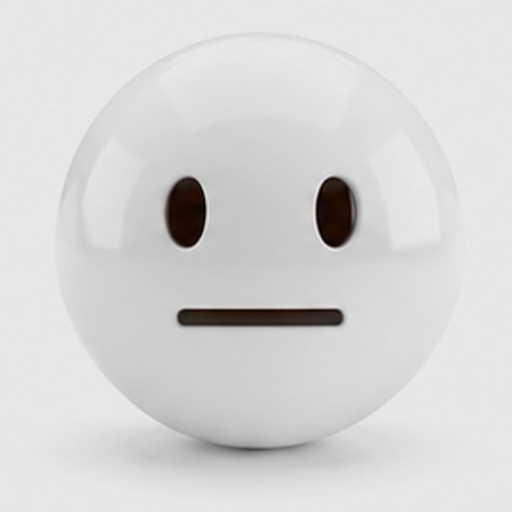
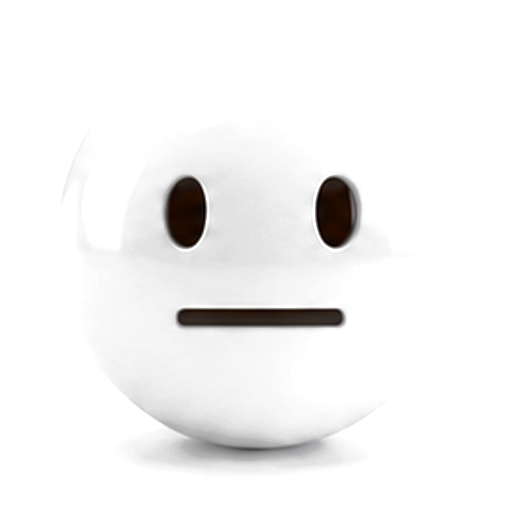
Transparent emoji PNGs, revert to plain img display
- PIL background removal: detected ~#E7E7E7 bg from corners,
  soft alpha edge so emojis blend cleanly on any page bg
- Remove dithering canvas code, back to simple <img>
- Drop unused hewnEmoji CSS keyframe

https://claude.ai/code/session_018M7KFojsfkFW1Qy3FznzBY

diff --git a/index.html b/index.html
@@ -66,103 +66,17 @@ const IChevUp = (p) => <Ico {...p}><polyline points="18 15 12 9 6 15" /></Ico>;
 
 /* ---- emoji visualisation ------------------------------------------ */
 function EmojiVis({ pPct, mPct }) {
-  const canvasRef = useRef(null);
-  const C = React.useContext(ThemeCtx);
-  const dataRef = useRef({ cells: [], revealStart: 0 });
-
   const avg = (pPct + mPct) / 2;
   const idx = Math.min(5, Math.floor(avg * 6));
-
-  const COLS = 40, ROWS = 40, CELL = 5;
-  const BAYER = [[0,8,2,10],[12,4,14,6],[3,11,1,9],[15,7,13,5]];
-
-  // Load + sample image into cell list whenever state changes
-  useEffect(() => {
-    const img = new Image();
-    img.crossOrigin = "anonymous";
-    img.onload = () => {
-      const sc = document.createElement("canvas");
-      sc.width = COLS; sc.height = ROWS;
-      const s = sc.getContext("2d");
-      s.drawImage(img, 0, 0, COLS, ROWS);
-      const px = s.getImageData(0, 0, COLS, ROWS).data;
-
-      const cells = [];
-      const cx = COLS / 2, cy = ROWS / 2;
-      for (let y = 0; y < ROWS; y++) {
-        for (let x = 0; x < COLS; x++) {
-          const i = (y * COLS + x) * 4;
-          const r = px[i], g = px[i+1], b = px[i+2], a = px[i+3];
-          if (a < 20) continue;
-
-          const lum = (r * 0.299 + g * 0.587 + b * 0.114) / 255;
-          // Skip background: high luminance + low saturation = neutral gray bg
-          const sat = (Math.max(r,g,b) - Math.min(r,g,b)) / (Math.max(r,g,b) || 1) / 255;
-          if (lum > 0.78 && sat < 0.10) continue;
-
-          const t = (BAYER[y % 4][x % 4] + 0.5) / 16;
-          const d = lum + (t - 0.5) * 0.32;
-          const char = d < 0.40 ? "+" : d < 0.72 ? "○" : null;
-          if (!char) continue;
-
-          const dist = Math.sqrt((x - cx) ** 2 + (y - cy) ** 2);
-          // unique shimmer phase per cell
-          const phase = (x * 1.3 + y * 2.1) % (Math.PI * 2);
-          cells.push({ x, y, char, lum, dist, phase });
-        }
-      }
-      dataRef.current = { cells, revealStart: performance.now() };
-    };
-    img.src = `assets/emojis/state${idx + 1}.png`;
-  }, [idx]);
-
-  // Continuous animation loop — restarted only when theme changes
-  useEffect(() => {
-    const canvas = canvasRef.current;
-    if (!canvas) return;
-    canvas.width = COLS * CELL;
-    canvas.height = ROWS * CELL;
-    const ctx = canvas.getContext("2d");
-    ctx.textAlign = "center";
-    ctx.textBaseline = "middle";
-    let raf;
-
-    function draw(now) {
-      const { cells, revealStart } = dataRef.current;
-      const elapsed = (now - revealStart) / 1000;
-
-      ctx.clearRect(0, 0, canvas.width, canvas.height);
-      ctx.fillStyle = C.ink;
-      ctx.font = `${CELL * 1.3}px monospace`;
-
-      for (const cell of cells) {
-        // staggered reveal: farther cells appear later, snappy ease-in
-        const delay = (cell.dist / 22) * 0.7;
-        const t = Math.min(1, Math.max(0, (elapsed - delay) * 4));
-        if (t <= 0) continue;
-        const reveal = t < 1 ? t * t * (3 - 2 * t) : 1; // smoothstep
-
-        // per-cell shimmer: gentle sine at varying speeds
-        const shimmer = 0.55 + 0.45 * Math.sin(now / 1100 + cell.phase);
-
-        ctx.globalAlpha = reveal * shimmer * (0.75 + (1 - cell.lum) * 0.25);
-        ctx.fillText(cell.char, cell.x * CELL + CELL / 2, cell.y * CELL + CELL / 2);
-      }
-      ctx.globalAlpha = 1;
-      raf = requestAnimationFrame(draw);
-    }
-
-    raf = requestAnimationFrame(draw);
-    return () => cancelAnimationFrame(raf);
-  }, [C.ink]);
-
+  const src = `assets/emojis/state${idx + 1}.png`;
   return (
     <div style={{ width: "100%", height: "100%", display: "flex", alignItems: "center", justifyContent: "center" }}>
-      <canvas ref={canvasRef} width={COLS * CELL} height={ROWS * CELL}
-        style={{ display: "block", maxWidth: "88%", maxHeight: "88%" }} />
+      <img key={idx} src={src} alt="" draggable={false}
+        style={{ width: 170, height: 170, objectFit: "contain", animation: "hewnEmoji 420ms cubic-bezier(0.34,1.56,0.64,1)" }} />
     </div>
   );
 }
+
 
 /* ---- UI primitives ------------------------------------------------ */
 function ProgressLine({ pct }) {
